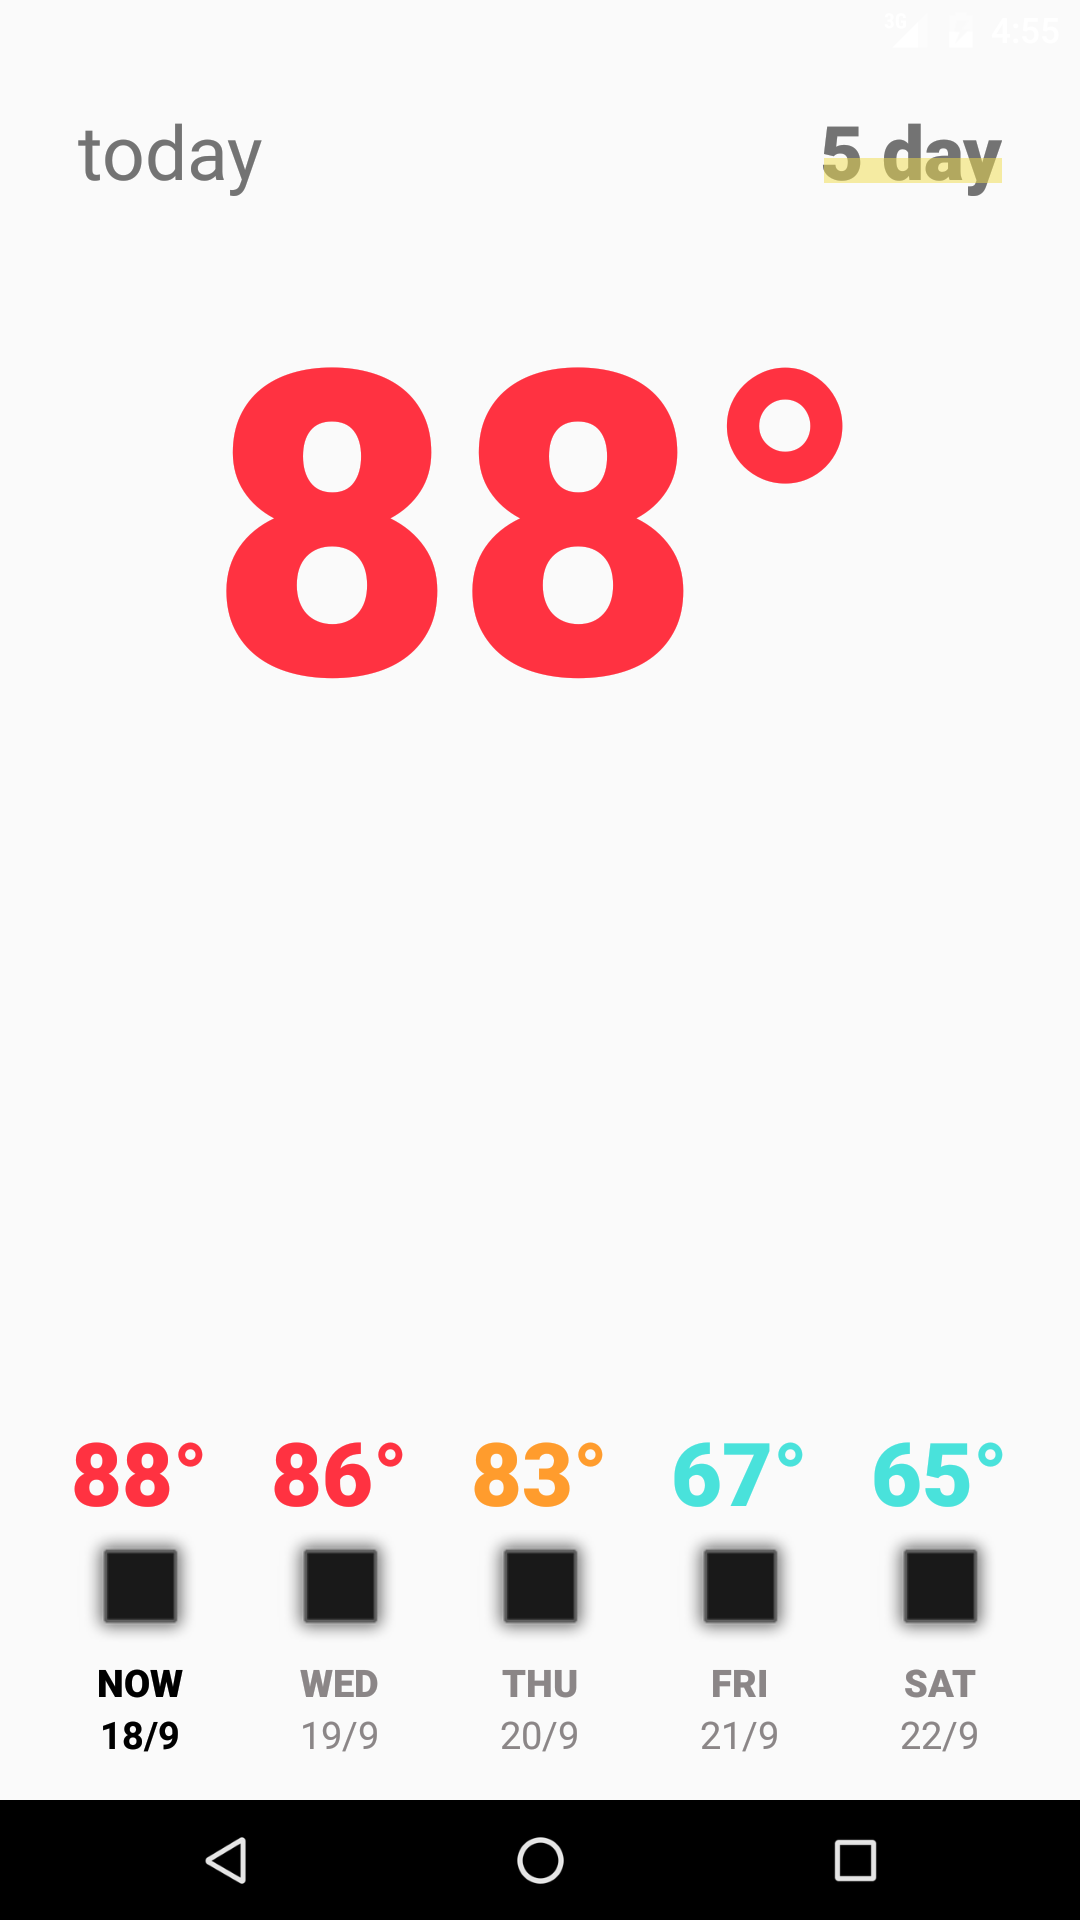
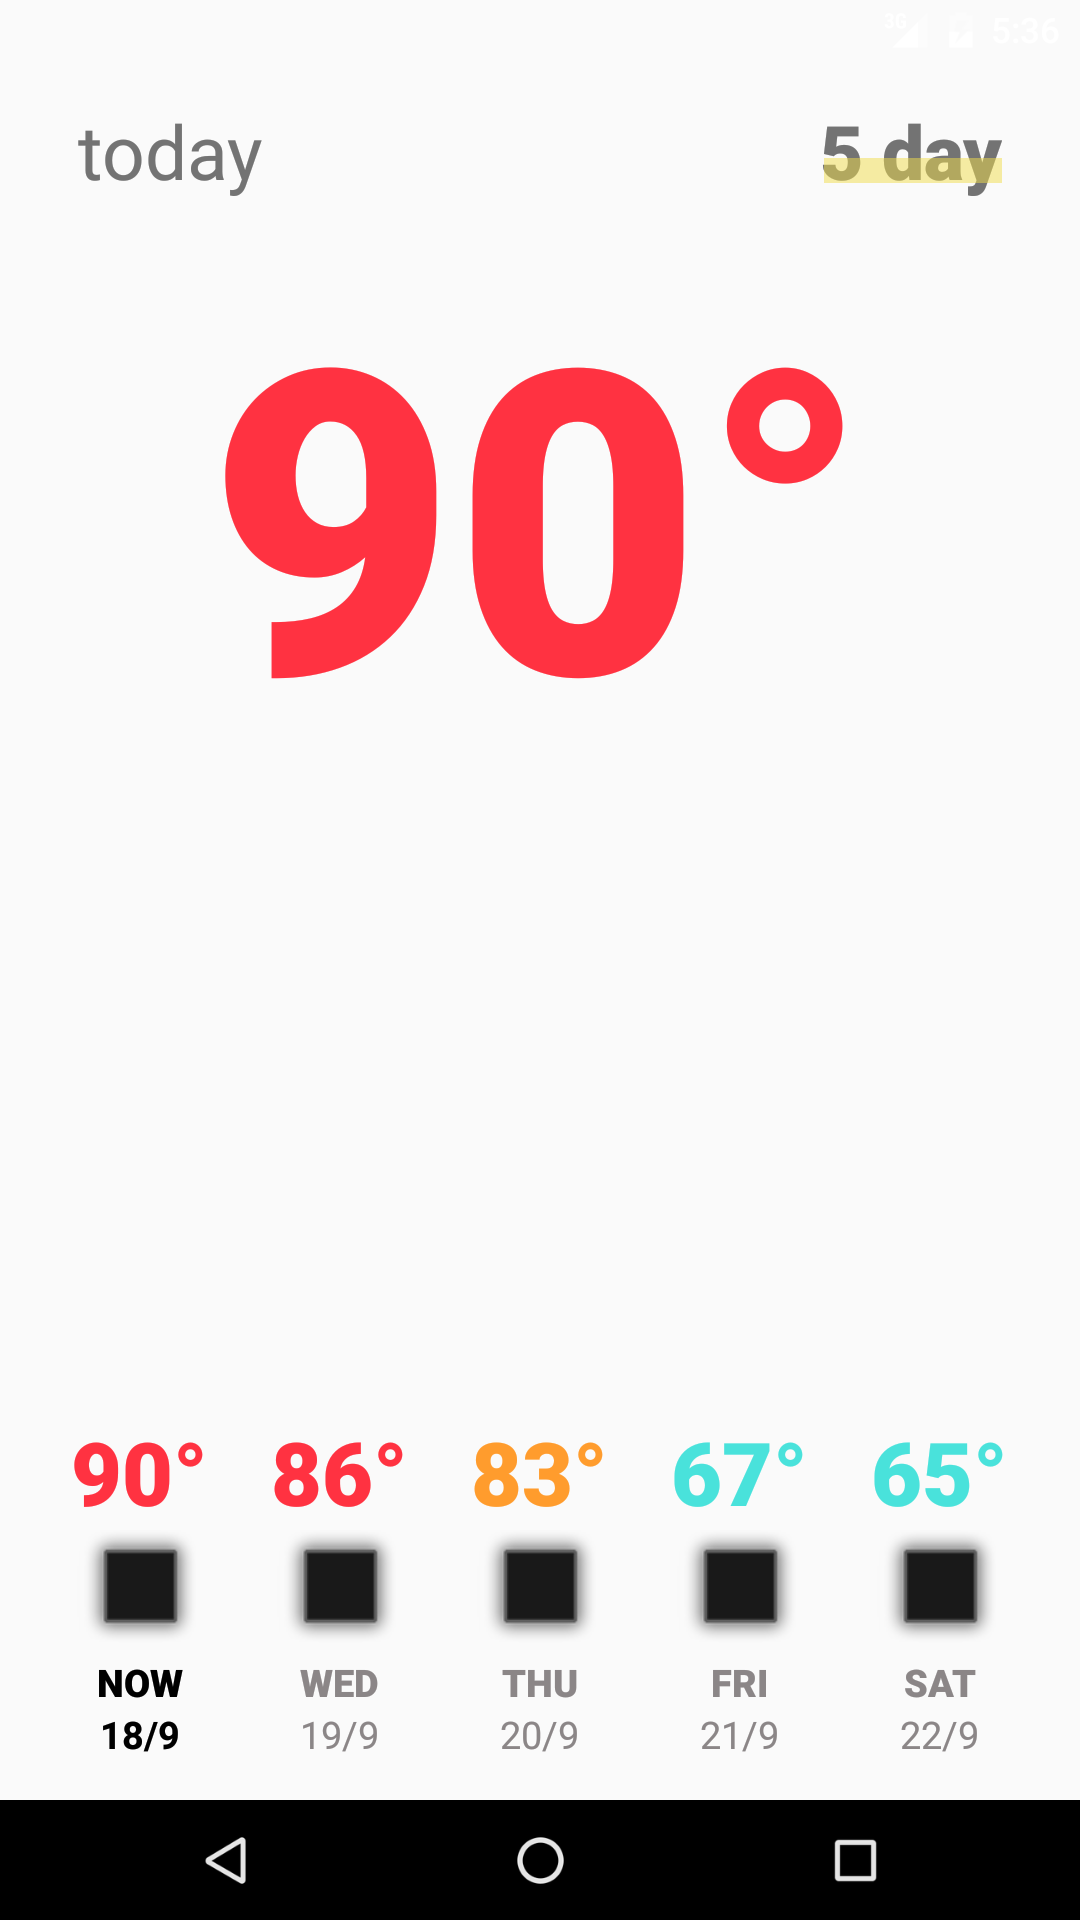
Adding cache mechanism to avoid over-requesting weather

Changed region(s): [[0.2139, 0.2188, 0.6417, 0.375], [0.0611, 0.75, 0.1528, 0.7812], [0.3667, 0.1875, 0.3972, 0.2188]]

diff --git a/app/src/main/java/az/colorweather/view/WeatherActivity.java b/app/src/main/java/az/colorweather/view/WeatherActivity.java
@@ -12,7 +12,6 @@ import java.util.ArrayList;
 import az.colorweather.R;
 import az.colorweather.WeatherContract;
 import az.colorweather.api.model.gson.common.Coord;
-import az.colorweather.api.model.gson.current_day.CurrentWeather;
 import az.colorweather.model.ForecastDay;
 import az.colorweather.presenter.WeatherPresenter;
 import az.colorweather.util.Temperature;
@@ -75,23 +74,25 @@ public class WeatherActivity extends AppCompatActivity implements WeatherContrac
     @Override
     protected void onResume() {
         super.onResume();
-        //TODO: REMOVE FOLLOWING AND CHECK LATEST RETRIEVED VALUE AND SETUP UI ACCORDINGLY HERE
-
         setupFiveDaySelectedUi();
 
+        //TODO: REPLACE WITH DEVICE CURRENT LOCATION
         Coord coordinate = new Coord();
         coordinate.setLat(32.8998091);
         coordinate.setLon(-97.0425239);
 
         presenter.getFiveDayForecast(coordinate);
-        presenter.getCurrentDayForecast(coordinate);
     }
 
     @OnClick(R.id.today_button)
     public void todayButtonClick(View view) {
         setupTodaySelectedUi();
 
-        //TODO: CALL TODAY WEATHER FULL FORECAST HERE
+        Coord coordinate = new Coord();
+        coordinate.setLat(32.8998091);
+        coordinate.setLon(-97.0425239);
+
+        presenter.getCurrentDayForecast(coordinate);
     }
 
     private void setupTodaySelectedUi() {
@@ -101,11 +102,11 @@ public class WeatherActivity extends AppCompatActivity implements WeatherContrac
         today_button.setTypeface(robotoBlackTypeFace);
         five_day_button.setTypeface(robotoRegularTypeFace);
 
-        first_forecast_day_month.setVisibility(View.GONE);
-        second_forecast_day_month.setVisibility(View.GONE);
-        third_forecast_day_month.setVisibility(View.GONE);
-        fourth_forecast_day_month.setVisibility(View.GONE);
-        fifth_forecast_day_month.setVisibility(View.GONE);
+        first_forecast_day_month.setVisibility(View.INVISIBLE);
+        second_forecast_day_month.setVisibility(View.INVISIBLE);
+        third_forecast_day_month.setVisibility(View.INVISIBLE);
+        fourth_forecast_day_month.setVisibility(View.INVISIBLE);
+        fifth_forecast_day_month.setVisibility(View.INVISIBLE);
     }
 
     @OnClick(R.id.five_day_button)
@@ -117,7 +118,6 @@ public class WeatherActivity extends AppCompatActivity implements WeatherContrac
         coordinate.setLon(-97.0425239);
 
         presenter.getFiveDayForecast(coordinate);
-        presenter.getCurrentDayForecast(coordinate);
     }
 
     private void setupFiveDaySelectedUi() {
@@ -152,9 +152,16 @@ public class WeatherActivity extends AppCompatActivity implements WeatherContrac
     //TODO: LIST OBTAINED MUST HAVE ONLY DATA USED IN THE SCREEN TO AVOID OVER ACCESSING FUNCTIONS
     @Override
     public void updateFiveDayForecast(ArrayList<ForecastDay> forecastDays) {
+        String tempWithDegrees = String.format(getString(R.string.degrees_placeholder), forecastDays.get(FIRST_DAY_INDEX).getTemperature());
+        current_weather.setText(tempWithDegrees);
+        current_weather.setTextColor(getColor(presenter.getColorForTemp(forecastDays.get(FIRST_DAY_INDEX).getTemperature())));
         first_forecast_day_month.setText(forecastDays.get(FIRST_DAY_INDEX).getDayMonth());
 
-        String tempWithDegrees = String.format(getString(R.string.degrees_placeholder), forecastDays.get(SECOND_DAY_INDEX).getTemperature());
+        first_forecast.setText(tempWithDegrees);
+        first_forecast.setTextColor(getColor(presenter.getColorForTemp(forecastDays.get(FIRST_DAY_INDEX).getTemperature())));
+        first_forecast_day.setText(getString(R.string.now));
+
+        tempWithDegrees = String.format(getString(R.string.degrees_placeholder), forecastDays.get(SECOND_DAY_INDEX).getTemperature());
         second_forecast.setText(tempWithDegrees);
         second_forecast.setTextColor(getColor(presenter.getColorForTemp(forecastDays.get(SECOND_DAY_INDEX).getTemperature())));
         second_forecast_day.setText(forecastDays.get(SECOND_DAY_INDEX).getDay());
@@ -180,15 +187,34 @@ public class WeatherActivity extends AppCompatActivity implements WeatherContrac
     }
 
     @Override
-    public void updateCurrentWeather(CurrentWeather currentWeather) {
-        int roundedTemp = (int) Math.round(currentWeather.getMain().getTemp());
-        String degrees = String.format(getString(R.string.degrees_placeholder), roundedTemp);
+    public void updateCurrentDayWeather(ArrayList<ForecastDay> currentWeather) {
+        String degrees = String.format(getString(R.string.degrees_placeholder), currentWeather.get(FIRST_DAY_INDEX).getTemperature());
         current_weather.setText(degrees);
-        current_weather.setTextColor(getColor(presenter.getColorForTemp(roundedTemp)));
+        current_weather.setTextColor(getColor(presenter.getColorForTemp(currentWeather.get(FIRST_DAY_INDEX).getTemperature())));
 
         first_forecast.setText(degrees);
-        first_forecast.setTextColor(getColor(presenter.getColorForTemp(roundedTemp)));
+        first_forecast.setTextColor(getColor(presenter.getColorForTemp(currentWeather.get(FIRST_DAY_INDEX).getTemperature())));
         first_forecast_day.setText(getString(R.string.now));
+
+        degrees = String.format(getString(R.string.degrees_placeholder), currentWeather.get(SECOND_DAY_INDEX).getTemperature());
+        second_forecast.setText(degrees);
+        second_forecast.setTextColor(getColor(presenter.getColorForTemp(currentWeather.get(SECOND_DAY_INDEX).getTemperature())));
+        second_forecast_day.setText(currentWeather.get(SECOND_DAY_INDEX).getHourOfForecast());
+
+        degrees = String.format(getString(R.string.degrees_placeholder), currentWeather.get(THIRD_DAY_INDEX).getTemperature());
+        third_forecast.setText(degrees);
+        third_forecast.setTextColor(getColor(presenter.getColorForTemp(currentWeather.get(THIRD_DAY_INDEX).getTemperature())));
+        third_forecast_day.setText(currentWeather.get(THIRD_DAY_INDEX).getHourOfForecast());
+
+        degrees = String.format(getString(R.string.degrees_placeholder), currentWeather.get(FOURTH_DAY_INDEX).getTemperature());
+        fourth_forecast.setText(degrees);
+        fourth_forecast.setTextColor(getColor(presenter.getColorForTemp(currentWeather.get(FOURTH_DAY_INDEX).getTemperature())));
+        fourth_forecast_day.setText(currentWeather.get(FOURTH_DAY_INDEX).getHourOfForecast());
+
+        degrees = String.format(getString(R.string.degrees_placeholder), currentWeather.get(FIFTH_DAY_INDEX).getTemperature());
+        fifth_forecast.setText(degrees);
+        fifth_forecast.setTextColor(getColor(presenter.getColorForTemp(currentWeather.get(FIFTH_DAY_INDEX).getTemperature())));
+        fifth_forecast_day.setText(currentWeather.get(FIFTH_DAY_INDEX).getHourOfForecast());
     }
 
     private int getColor(Temperature colorTemp) {

diff --git a/app/src/main/java/az/colorweather/presenter/WeatherPresenter.java b/app/src/main/java/az/colorweather/presenter/WeatherPresenter.java
@@ -14,7 +14,6 @@ import az.colorweather.api.OWService;
 import az.colorweather.api.listener.OWRequestListener;
 import az.colorweather.api.model.OWResponse;
 import az.colorweather.api.model.gson.common.Coord;
-import az.colorweather.api.model.gson.current_day.CurrentWeather;
 import az.colorweather.api.model.gson.five_day.ExtendedWeather;
 import az.colorweather.api.model.gson.five_day.WeatherForecastElement;
 import az.colorweather.api.utils.OWSupportedLanguages;
@@ -29,11 +28,15 @@ import az.colorweather.util.Temperature;
 public class WeatherPresenter implements WeatherContract.Presenter {
 
     private static final String TAG = WeatherPresenter.class.getSimpleName();
+    public static final int TEN_MINUTES = 600000;
     private WeatherContract.View view;
     private SimpleDateFormat weatherDateStampFormat = new SimpleDateFormat("yyyy-MM-dd HH:mm:ss");
     private OWService mOWService;
     private Locale mLocale;
     private SimpleDateFormat dayFormat;
+    private ArrayList<ForecastDay> mFiveDayForecast;
+    private ArrayList<ForecastDay> mDayForecast;
+    private Date mLastRetrievedDateStamp;
 
     public WeatherPresenter(WeatherContract.View view, Locale locale) {
         this.view = view;
@@ -46,41 +49,43 @@ public class WeatherPresenter implements WeatherContract.Presenter {
 
     @Override
     public void getFiveDayForecast(final Coord coordinate) {
-        mOWService.getFiveDayForecast(coordinate, new OWRequestListener<ExtendedWeather>() {
-            @Override
-            public void onResponse(OWResponse<ExtendedWeather> response) {
-                ExtendedWeather extendedWeather = response.body();
 
-                for (WeatherForecastElement weather : extendedWeather.getList()) {
-                    Log.d(TAG, weather.getDtTxt() + " - Got Temp: " + weather.getMain().getTemp() + "°");
+        if(canUpdateForecast()) {
+            mOWService.getFiveDayForecast(coordinate, new OWRequestListener<ExtendedWeather>() {
+                @Override
+                public void onResponse(OWResponse<ExtendedWeather> response) {
+                    ExtendedWeather extendedWeather = response.body();
+                    mFiveDayForecast = filterTemps(extendedWeather);
+                    mDayForecast = filterUpcomingFiveForecasts(extendedWeather);
+                    view.updateFiveDayForecast(mFiveDayForecast);
+                    mLastRetrievedDateStamp = new Date(System.currentTimeMillis());
                 }
 
-                ArrayList<ForecastDay> curatedList = filterTemps(extendedWeather);
-                view.updateFiveDayForecast(curatedList);
-            }
+                @Override
+                public void onFailure(Throwable t) {
+                    Log.e(TAG, "Five Day Forecast request failed: " + t.getMessage());
+                }
+            });
+        } else {
+            view.updateFiveDayForecast(mFiveDayForecast);
+        }
+    }
 
-            @Override
-            public void onFailure(Throwable t) {
-                Log.d(TAG, "Five Day Forecast request failed: " + t.getMessage());
+    private boolean canUpdateForecast() {
+        if(mLastRetrievedDateStamp != null && mFiveDayForecast != null) {
+            if(System.currentTimeMillis() - mLastRetrievedDateStamp.getTime() > TEN_MINUTES) {
+                return true;
+            } else {
+                return false;
             }
-        });
+        } else {
+            return true;
+        }
     }
 
     @Override
     public void getCurrentDayForecast(final Coord coordinate) {
-        mOWService.getCurrentDayForecast(coordinate, new OWRequestListener<CurrentWeather>() {
-            @Override
-            public void onResponse(OWResponse<CurrentWeather> response) {
-                CurrentWeather currentWeather = response.body();
-                Log.d(TAG, "Got Current Weather!: " + currentWeather.getWeather().get(0).getDescription());
-                view.updateCurrentWeather(currentWeather);
-            }
-
-            @Override
-            public void onFailure(Throwable t) {
-                Log.d(TAG, "Current Weather request failed: " + t.getMessage());
-            }
-        });
+        view.updateCurrentDayWeather(mDayForecast);
     }
 
     @Override
@@ -136,16 +141,59 @@ public class WeatherPresenter implements WeatherContract.Presenter {
             calendar.setTime(parsedDate);
             int currentDay = calendar.get(Calendar.DAY_OF_MONTH);
             int currentMonth = calendar.get(Calendar.MONTH);
+            int currentHour = calendar.get(Calendar.HOUR_OF_DAY);
 
             if (currentDay != tmpDay) {
                 int roundedTemp = (int) Math.round(element.getMain().getTemp());
                 String dayName = dayFormat.format(parsedDate);
-                curatedFiveDayForecast.add(new ForecastDay(dayName, "" + currentDay + "/" + currentMonth, roundedTemp));
+                curatedFiveDayForecast.add(
+                        new ForecastDay(
+                                dayName,
+                                "" + currentDay + "/" + currentMonth,
+                                currentHour,
+                                roundedTemp));
                 tmpDay = currentDay;
             }
         }
 
         return curatedFiveDayForecast;
+    }
+
+    private ArrayList<ForecastDay> filterUpcomingFiveForecasts(ExtendedWeather extendedWeather) {
+        ArrayList<ForecastDay> upcomingFiveForecasts = new ArrayList();
+
+        int currentDayCount = 0;
+
+        for (WeatherForecastElement element : extendedWeather.getList()) {
+
+            Date parsedDate = new Date();
+            try {
+                parsedDate = weatherDateStampFormat.parse(element.getDtTxt());
+            } catch (ParseException e) {
+                e.printStackTrace();
+            }
+            Calendar calendar = Calendar.getInstance();
+            calendar.setTime(parsedDate);
+            int currentDay = calendar.get(Calendar.DAY_OF_MONTH);
+            int currentMonth = calendar.get(Calendar.MONTH);
+            int currentHour = calendar.get(Calendar.HOUR_OF_DAY);
+
+            int roundedTemp = (int) Math.round(element.getMain().getTemp());
+            String dayName = dayFormat.format(parsedDate);
+            upcomingFiveForecasts.add(
+                    new ForecastDay(dayName,
+                            "" + currentDay + "/" + currentMonth,
+                            currentHour,
+                            roundedTemp));
+
+            currentDayCount++;
+
+            if(currentDayCount == 5) {
+                break;
+            }
+        }
+
+        return upcomingFiveForecasts;
     }
 
 }

diff --git a/app/src/main/java/az/colorweather/model/ForecastDay.java b/app/src/main/java/az/colorweather/model/ForecastDay.java
@@ -8,12 +8,14 @@ public class ForecastDay {
 
     String day;
     String dayString;
+    String hourOfForecast;
     int temperature;
 
-    public ForecastDay(String day, String dayString, int temperature) {
+    public ForecastDay(String day, String dayString, int hourOfForecast, int temperature) {
         this.day = day;
         this.dayString = dayString;
         this.temperature = temperature;
+        this.hourOfForecast = hourOfForecast + ":00";
     }
 
     public String getDay() {
@@ -26,5 +28,9 @@ public class ForecastDay {
 
     public int getTemperature() {
         return temperature;
+    }
+
+    public String getHourOfForecast() {
+        return hourOfForecast;
     }
 }

diff --git a/app/src/main/java/az/colorweather/WeatherContract.java b/app/src/main/java/az/colorweather/WeatherContract.java
@@ -3,7 +3,6 @@ package az.colorweather;
 import java.util.ArrayList;
 
 import az.colorweather.api.model.gson.common.Coord;
-import az.colorweather.api.model.gson.current_day.CurrentWeather;
 import az.colorweather.model.ForecastDay;
 import az.colorweather.util.Temperature;
 
@@ -16,7 +15,7 @@ public interface WeatherContract {
     interface View {
         void updateFiveDayForecast(ArrayList<ForecastDay> weatherForecastElement);
 
-        void updateCurrentWeather(CurrentWeather currentWeather);
+        void updateCurrentDayWeather(ArrayList<ForecastDay> currentWeather);
     }
 
     interface Presenter {
